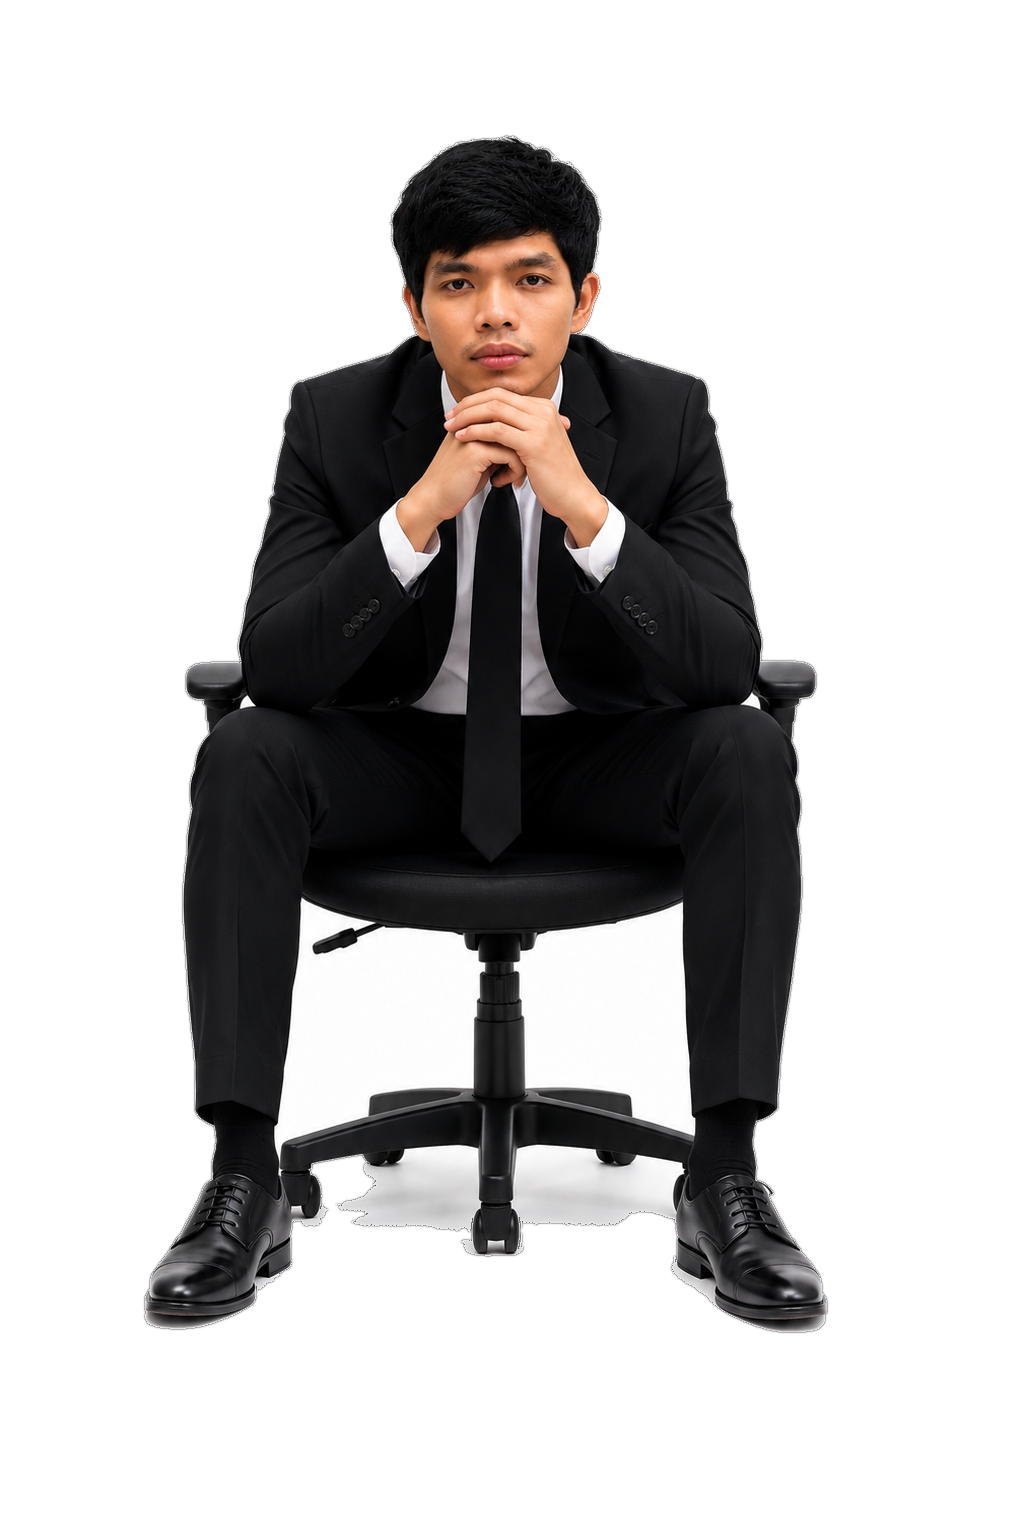
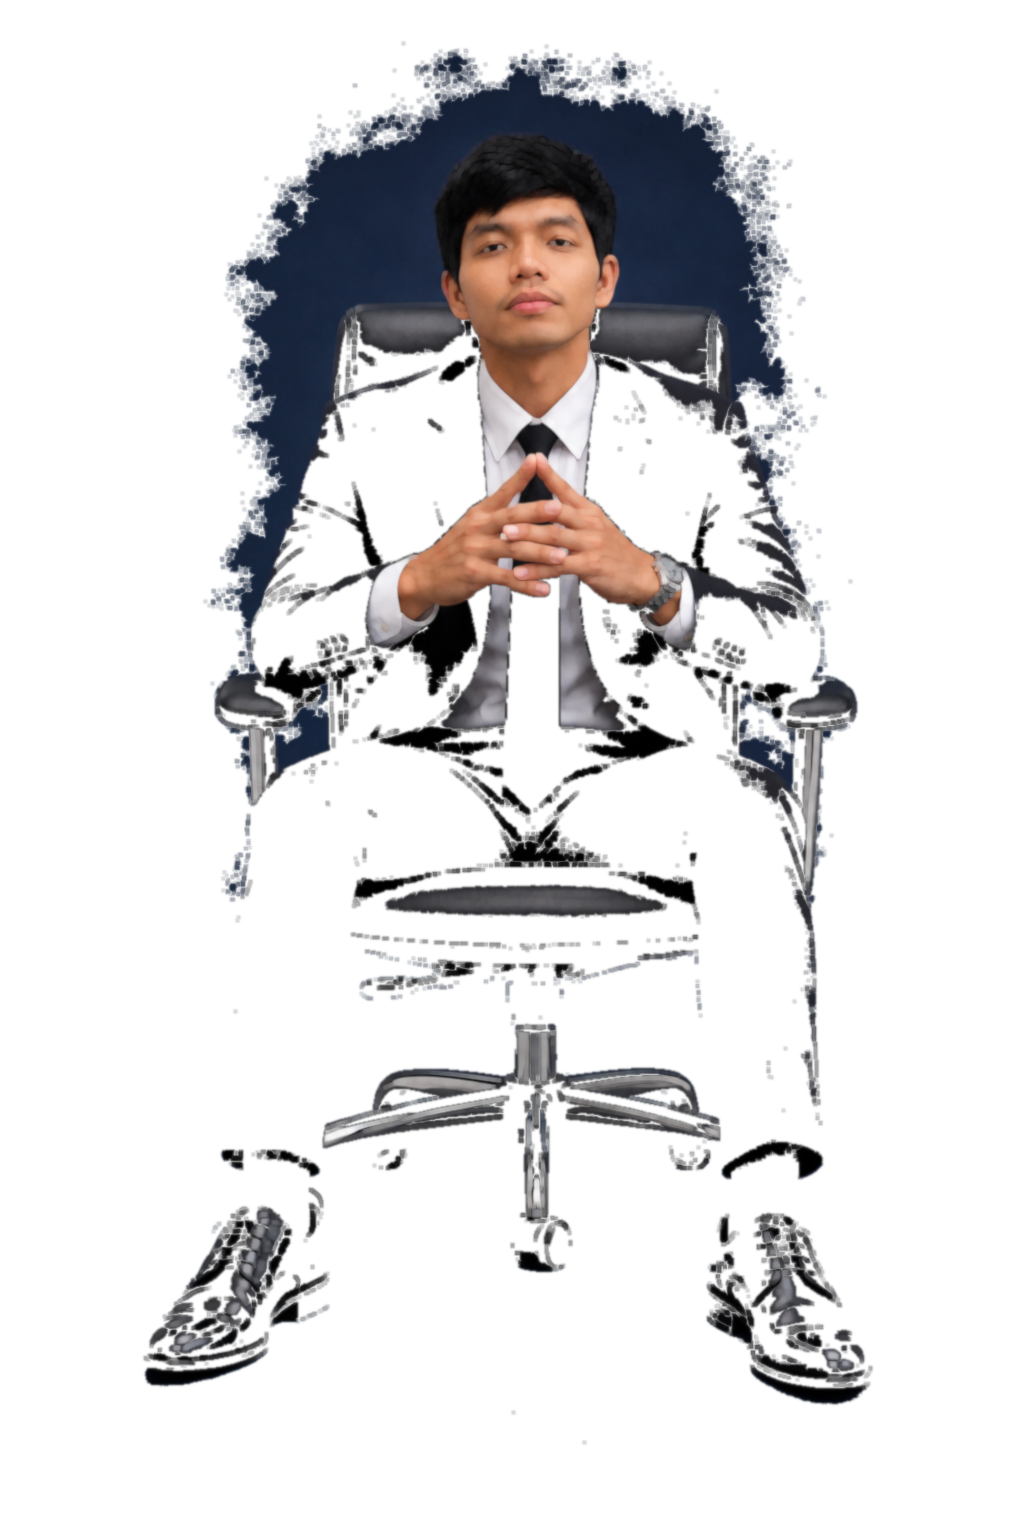
Work: new image3 with dark-bg cutout, portrait enlarged

diff --git a/css/style.css b/css/style.css
@@ -99,7 +99,7 @@ body.no-scroll { overflow: hidden; }
 .work-ring__world { display: flex; flex-wrap: wrap; justify-content: center; gap: 16px; align-items: center; }
 .work-ring__center { order: -1; width: 100%; text-align: center; }
 .work-ring__center img {
-  height: clamp(300px, 44vh, 520px);
+  height: clamp(320px, 46vh, 540px);
   width: auto;
   max-width: 100%;
   filter: drop-shadow(0 30px 60px rgba(0, 0, 0, 0.55));
@@ -148,7 +148,7 @@ body.no-scroll { overflow: hidden; }
     z-index: 2;
     will-change: transform;
   }
-  .js-ring .work-ring__center img { height: clamp(340px, 50vh, 600px); }
+  .js-ring .work-ring__center img { height: clamp(360px, 54vh, 640px); }
 }
 .section--tight { padding: clamp(72px, 9vw, 120px) 0; }
 

diff --git a/index.html b/index.html
@@ -9,7 +9,7 @@
   <link rel="preconnect" href="https://fonts.googleapis.com">
   <link rel="preconnect" href="https://fonts.gstatic.com" crossorigin>
   <link href="https://fonts.googleapis.com/css2?family=Inter:wght@400;500;600&family=Instrument+Serif:ital@0;1&family=Space+Grotesk:wght@400;500;600;700&display=swap" rel="stylesheet">
-  <link rel="stylesheet" href="css/style.css?v=17">
+  <link rel="stylesheet" href="css/style.css?v=18">
 </head>
 <body data-page="home">
 
@@ -311,6 +311,6 @@
   </footer>
 
   <script src="https://cdn.jsdelivr.net/npm/lenis@1.1.14/dist/lenis.min.js"></script>
-  <script src="js/main.js?v=17"></script>
+  <script src="js/main.js?v=18"></script>
 </body>
 </html>
